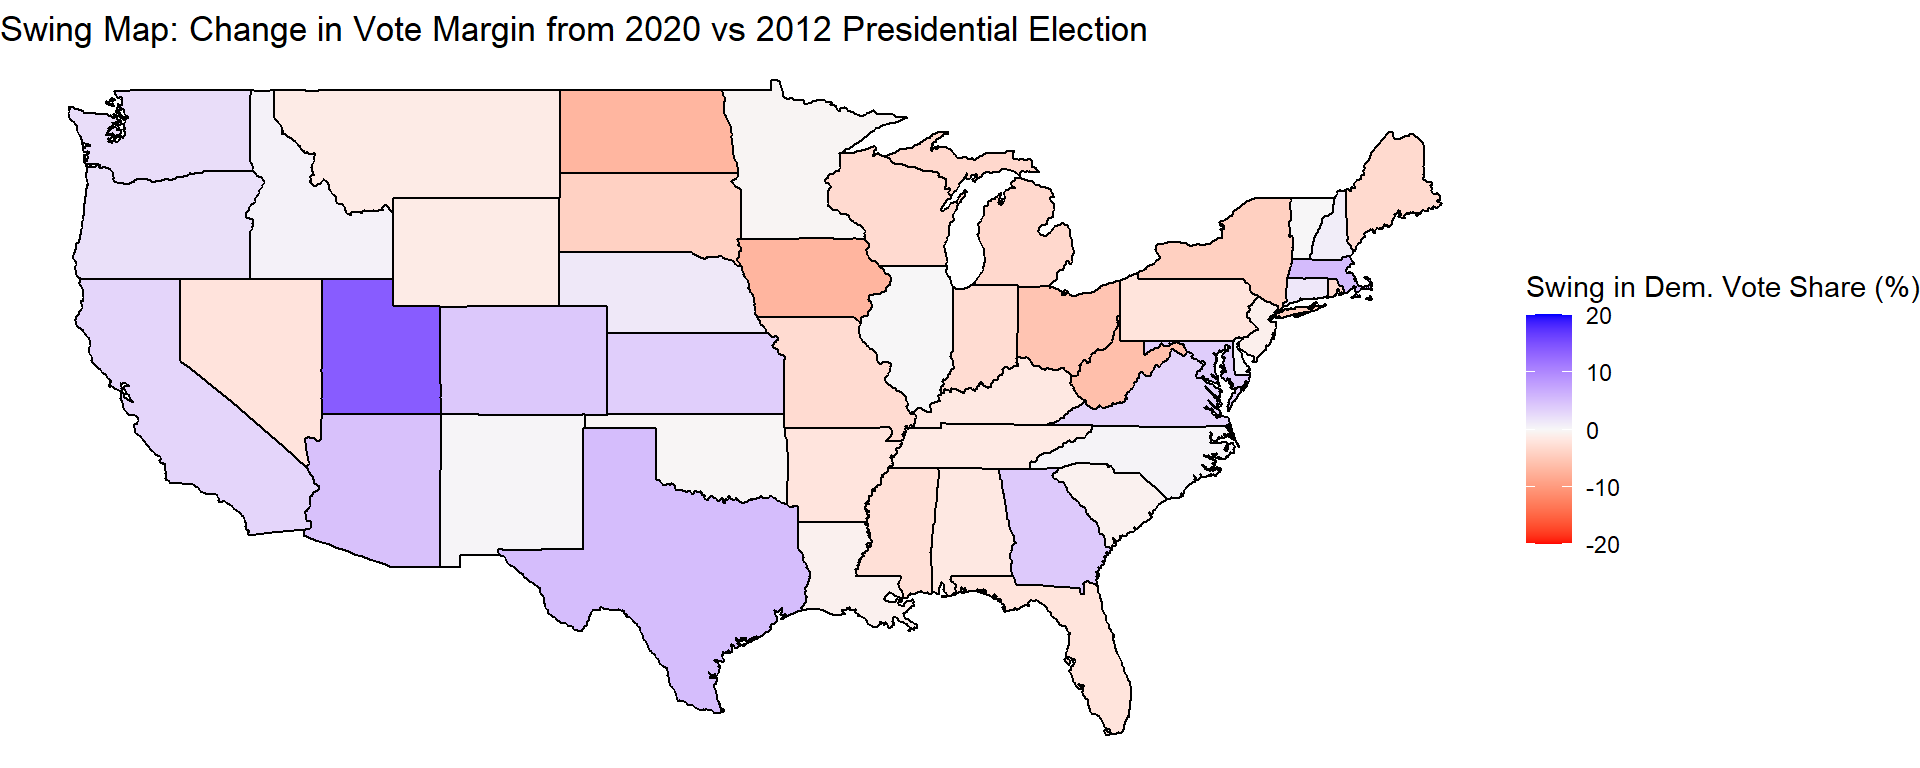
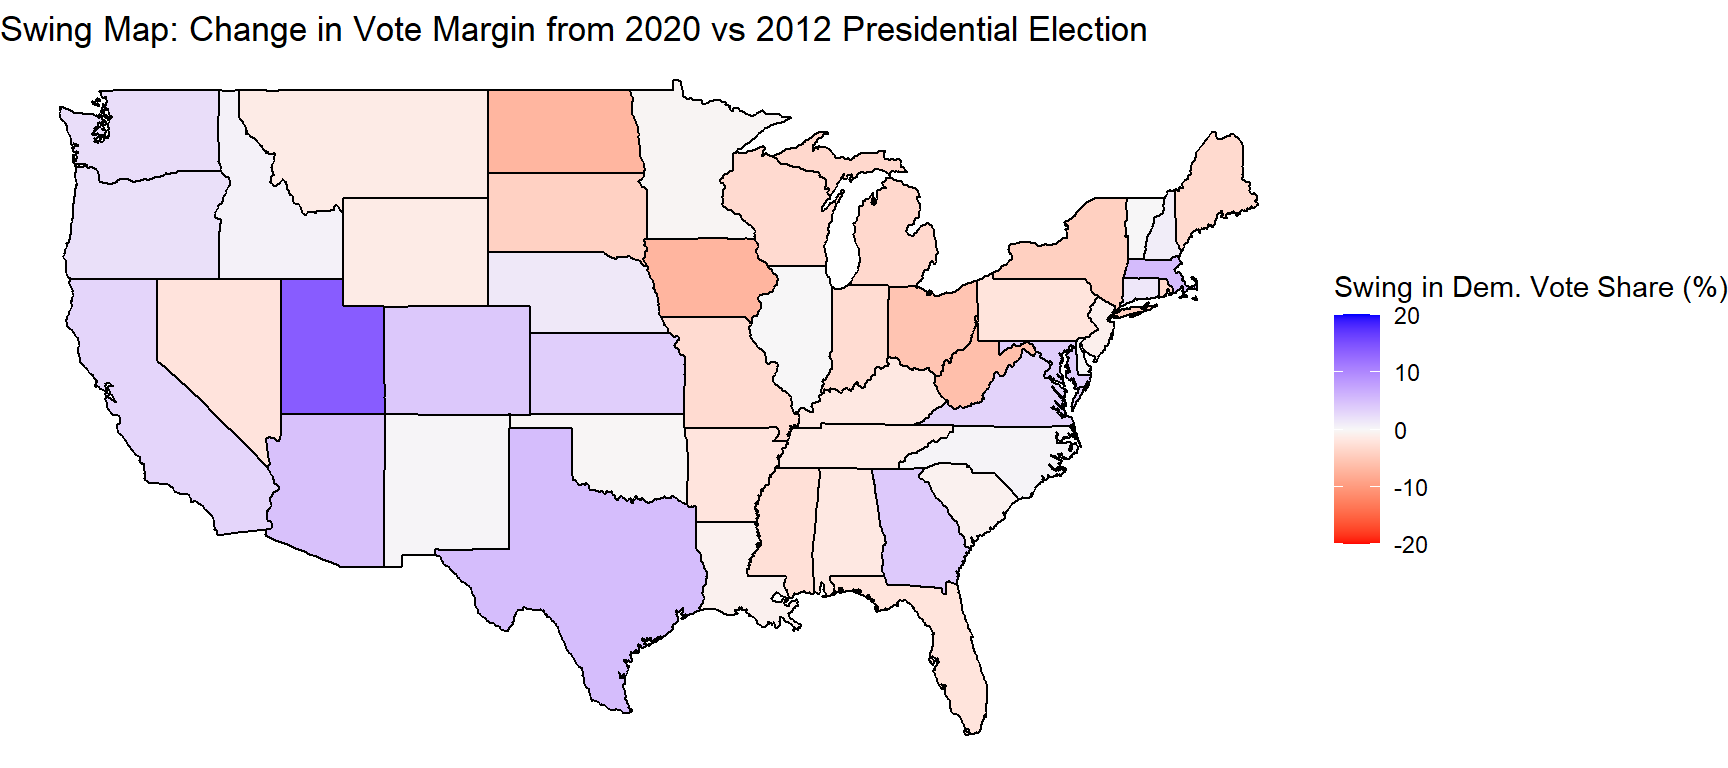
width prt 7

diff --git a/public/post/2024/09/09/post-1/index.html b/public/post/2024/09/09/post-1/index.html
@@ -43,11 +43,11 @@
 <p>Pennsylvania, Wisconsin, Nevada, and Michigan have consistently been swing states throughout this period, including the most recent election. Conversely, Arizona, Georgia, and North Carolina have shifted from being reliably Republican to competitive. Florida is difficult to gauge; while its vote margins suggest swing state status, recent election results resemble those of more consistently red states like Iowa or Texas. Therefore, we&rsquo;ll reserve judgment until further analysis of more recent maps.</p>
 <h2 id="swing-map-1-2016-vs-2020">Swing Map #1: 2016 vs. 2020</h2>
 <p>This map examines the change in vote margins in each state between 2016 and 2020. As expected, most of the map is blue since a Republican won in 2016 but lost in 2020. However, a few noteworthy trends emerge. First, while much of the country shifted towards the Democrats, Florida moved further towards the Republicans. In my opinion, this shift is significant enough to remove Florida&rsquo;s status as a swing state. Florida moved towards a Republican candidate even as Republicans underperformed nationwide.</p>
-<img src="https://example.org/post/2024/09/09/post-1/index_files/figure-html/unnamed-chunk-11-1.png" width="768" />
+<img src="https://example.org/post/2024/09/09/post-1/index_files/figure-html/unnamed-chunk-11-1.png" width="864" />
 <p>Another interesting point is that New York and California, two Democratic strongholds, also trended Republican. These two states represent major electoral college strongholds for the Democrats. Many argue that recent trends make it unlikely for Democrats to lose the popular vote but still win the Electoral College. While this is mainly true, if these states continue to trend Republican, it could become possible in future elections.</p>
 <h2 id="swing-map-2-2012-vs-2020">Swing Map #2: 2012 vs. 2020</h2>
 <p>While the map comparing vote margins from 2016 to 2020 is interesting, there isn’t much detailed analysis to draw from it, as most of the country swung in favor of the party shift. A more fascinating comparison comes from looking at the 2012 and 2020 presidential elections, where Democratic candidates won both times. However, it’s important to note that the 2012 election was a more decisive victory for the Democrats. Obama won 126 more electoral votes than Romney, while Biden only won 74 more than Trump.</p>
-<img src="https://example.org/post/2024/09/09/post-1/index_files/figure-html/unnamed-chunk-12-1.png" width="960" />
+<img src="https://example.org/post/2024/09/09/post-1/index_files/figure-html/unnamed-chunk-12-1.png" width="864" />
 <p>This map supports earlier analysis. Arizona and Georgia stand out as they have become far more competitive for the Democratic Party, evolving into swing states. Conversely, Ohio, Iowa, and Florida have trended more Republican and are no longer considered swing states. Many traditional swing states in the Midwest and Nevada trended Republican, though this is expected, given that Obama won more significantly than Biden.</p>
 <p>Utah has become significantly more Democratic-leaning, though it remains far from becoming a swing state. Texas has also shifted noticeably toward the Democrats during this period, signaling its potential move toward swing state status. Interestingly, some reliably red states like Kansas and Idaho have trended more Democratic, while others, like North Dakota and West Virginia, have become significantly more Republican. I don&rsquo;t have a strong theory for why some traditionally Republican states shifted in opposite directions beyond basic immigration patterns.</p>
 <h2 id="concluding-thoughts">Concluding Thoughts</h2>

diff --git a/content/post/2024-09-06-post-1/index.md b/content/post/2024-09-06-post-1/index.md
@@ -52,7 +52,7 @@ Pennsylvania, Wisconsin, Nevada, and Michigan have consistently been swing state
 
 This map examines the change in vote margins in each state between 2016 and 2020. As expected, most of the map is blue since a Republican won in 2016 but lost in 2020. However, a few noteworthy trends emerge. First, while much of the country shifted towards the Democrats, Florida moved further towards the Republicans. In my opinion, this shift is significant enough to remove Florida's status as a swing state. Florida moved towards a Republican candidate even as Republicans underperformed nationwide.
 
-<img src="{{< blogdown/postref >}}index_files/figure-html/unnamed-chunk-11-1.png" width="768" />
+<img src="{{< blogdown/postref >}}index_files/figure-html/unnamed-chunk-11-1.png" width="864" />
 
 Another interesting point is that New York and California, two Democratic strongholds, also trended Republican. These two states represent major electoral college strongholds for the Democrats. Many argue that recent trends make it unlikely for Democrats to lose the popular vote but still win the Electoral College. While this is mainly true, if these states continue to trend Republican, it could become possible in future elections.
 
@@ -60,7 +60,7 @@ Another interesting point is that New York and California, two Democratic strong
 
 While the map comparing vote margins from 2016 to 2020 is interesting, there isn’t much detailed analysis to draw from it, as most of the country swung in favor of the party shift. A more fascinating comparison comes from looking at the 2012 and 2020 presidential elections, where Democratic candidates won both times. However, it’s important to note that the 2012 election was a more decisive victory for the Democrats. Obama won 126 more electoral votes than Romney, while Biden only won 74 more than Trump.
 
-<img src="{{< blogdown/postref >}}index_files/figure-html/unnamed-chunk-12-1.png" width="960" />
+<img src="{{< blogdown/postref >}}index_files/figure-html/unnamed-chunk-12-1.png" width="864" />
 
 This map supports earlier analysis. Arizona and Georgia stand out as they have become far more competitive for the Democratic Party, evolving into swing states. Conversely, Ohio, Iowa, and Florida have trended more Republican and are no longer considered swing states. Many traditional swing states in the Midwest and Nevada trended Republican, though this is expected, given that Obama won more significantly than Biden.
 
